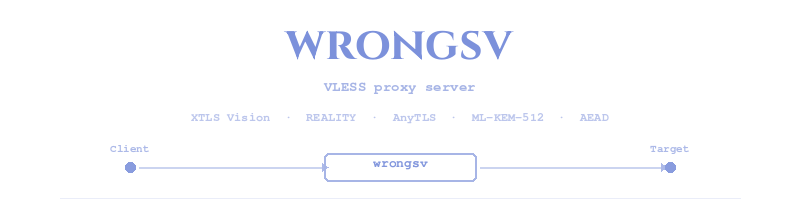
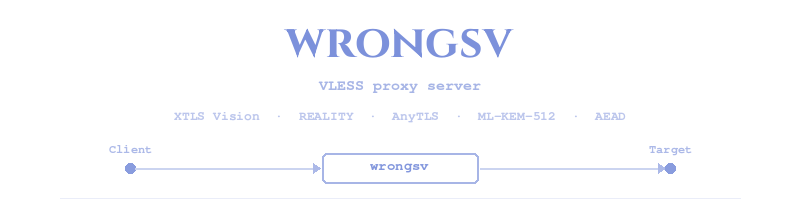
style: precise arrow alignment, all text +1 size, box text H+V centered

diff --git a/assets/generate_banner.py b/assets/generate_banner.py
@@ -5,17 +5,14 @@ import os
 W, H = 800, 200
 OUT = os.path.join(os.path.dirname(__file__), "banner.png")
 
-ACCENT = (124, 145, 219)  # #7c91db
+ACCENT = (124, 145, 219)
 WHITE = (255, 255, 255)
 
-# Pre-compute RGB blends — no alpha, all solid
 def blend(pct):
-    """Blend ACCENT into WHITE at given percentage (0-100)."""
     w = pct / 100.0
     return tuple(int(ACCENT[i] * w + WHITE[i] * (1 - w)) for i in range(3))
 
-# Solid colors for each element
-C_TITLE    = blend(100)  # pure accent
+C_TITLE    = blend(100)
 C_SUB      = blend(67)
 C_KW       = blend(51)
 C_FLOW_TEXT = blend(94)
@@ -23,13 +20,13 @@ C_FLOW_LABEL = blend(63)
 C_FLOW_NODE = blend(90)
 C_FLOW_ARROW = blend(39)
 C_FLOW_ARROWHEAD = blend(63)
-C_BOX       = blend(67)
-C_DIVIDER   = blend(16)
+C_BOX = blend(67)
+C_DIVIDER = blend(16)
 
 img = Image.new("RGB", (W, H), WHITE)
 draw = ImageDraw.Draw(img)
 
-# ── Fonts ─────────────────────────────────────────────────────────────────────
+# ── Fonts (all +1 size) ───────────────────────────────────────────────────────
 TITLE_FONT = ImageFont.truetype(
     os.path.expanduser("~/.local/share/fonts/Cinzel-Bold.ttf"), 46
 )
@@ -44,10 +41,10 @@ for fp in [
         mono_path = fp
         break
 
-sub_font = ImageFont.truetype(mono_path, 14)
-kw_font = ImageFont.truetype(mono_path, 12)
-flow_font = ImageFont.truetype(mono_path, 13)
-flow_sm = ImageFont.truetype(mono_path, 11)
+sub_font = ImageFont.truetype(mono_path, 15)   # was 14
+kw_font = ImageFont.truetype(mono_path, 13)    # was 12
+flow_font = ImageFont.truetype(mono_path, 14)  # was 13
+flow_sm = ImageFont.truetype(mono_path, 12)    # was 11
 
 # ── Measure ───────────────────────────────────────────────────────────────────
 cx = W // 2
@@ -55,20 +52,23 @@ cx = W // 2
 title = "wrongsv"
 tb = draw.textbbox((0, 0), title, font=TITLE_FONT)
 title_w = tb[2] - tb[0]
+title_ext = tb[3]
 
 subtitle = "VLESS proxy server"
 sb = draw.textbbox((0, 0), subtitle, font=sub_font)
 sub_w = sb[2] - sb[0]
+sub_ext = sb[3]
 
 keywords = "XTLS Vision  ·  REALITY  ·  AnyTLS  ·  ML-KEM-512  ·  AEAD"
 kb = draw.textbbox((0, 0), keywords, font=kw_font)
 kw_w = kb[2] - kb[0]
+kw_ext = kb[3]
 
-# ── Positions ─────────────────────────────────────────────────────────────────
-title_y = 14
-sub_y = 82
-kw_y = 113
-fl_y = 167
+# ── Positions (recalculated for larger fonts) ─────────────────────────────────
+title_y = 12
+sub_y = 80
+kw_y = 112
+fl_y = 168   # flow center
 
 # ── 1. Title ──────────────────────────────────────────────────────────────────
 draw.text((cx - title_w // 2, title_y), title, fill=C_TITLE, font=TITLE_FONT)
@@ -81,37 +81,56 @@ draw.text((cx - kw_w // 2, kw_y), keywords, fill=C_KW, font=kw_font)
 
 # ── 4. Flow diagram ───────────────────────────────────────────────────────────
 node_r = 5
-c_x, s_x, t_x = 130, 400, 670
-fc = fl_y
+c_x = 130      # client node center
+t_x = 670      # target node center
+s_x = 400      # server box center
+fc = fl_y      # center y for all flow elements
 
-# Client
+# --- Client node + label ---
 draw.ellipse([c_x - node_r, fc - node_r, c_x + node_r, fc + node_r], fill=C_FLOW_NODE)
-draw.text((c_x - draw.textbbox((0, 0), "Client", font=flow_sm)[2] // 2, fc - 22),
-          "Client", fill=C_FLOW_LABEL, font=flow_sm)
+label_bbox = draw.textbbox((0, 0), "Client", font=flow_sm)
+label_w = label_bbox[2] - label_bbox[0]
+draw.text((c_x - label_w // 2, fc - 23), "Client", fill=C_FLOW_LABEL, font=flow_sm)
 
-# Arrow 1
-a1e = s_x - 78
-draw.line([(c_x + node_r + 4, fc), (a1e, fc)], fill=C_FLOW_ARROW, width=2)
-draw.polygon([(a1e, fc - 4), (a1e + 6, fc), (a1e, fc + 4)], fill=C_FLOW_ARROWHEAD)
-
-# Server box
-s_w, s_h = 152, 28
+# --- Server box ---
+s_w, s_h = 156, 30
+box_left = s_x - s_w // 2
+box_right = s_x + s_w // 2
+box_top = fc - s_h // 2
+box_bottom = fc + s_h // 2
 draw.rounded_rectangle(
-    [(s_x - s_w // 2, fc - s_h // 2), (s_x + s_w // 2, fc + s_h // 2)],
+    [(box_left, box_top), (box_right, box_bottom)],
     radius=5, outline=C_BOX, width=2
 )
-draw.text((s_x - draw.textbbox((0, 0), "wrongsv", font=flow_font)[2] // 2, fc - 8),
-          "wrongsv", fill=C_FLOW_TEXT, font=flow_font)
+# Center "wrongsv" both H and V within the box
+st = "wrongsv"
+st_bbox = draw.textbbox((0, 0), st, font=flow_font)
+st_w = st_bbox[2] - st_bbox[0]
+st_h = st_bbox[3] - st_bbox[1]
+st_x = s_x - st_w // 2
+st_y = fc - st_h // 2 - st_bbox[1]  # subtract bbox[1] to account for baseline offset
+draw.text((st_x, st_y), st, fill=C_FLOW_TEXT, font=flow_font)
 
-# Arrow 2
-a2s = s_x + s_w // 2 + 4
-a2e = t_x - node_r - 4
-draw.line([(a2s, fc), (a2e, fc)], fill=C_FLOW_ARROW, width=2)
-draw.polygon([(a2e, fc - 4), (a2e + 6, fc), (a2e, fc + 4)], fill=C_FLOW_ARROWHEAD)
+# --- Arrow 1: client → server (tip touches box edge) ---
+a1_line_end = box_left - 9    # arrowhead tip lands at box_left - 2
+draw.line([(c_x + node_r, fc), (a1_line_end, fc)], fill=C_FLOW_ARROW, width=2)
+draw.polygon(
+    [(a1_line_end, fc - 5), (a1_line_end + 7, fc), (a1_line_end, fc + 5)],
+    fill=C_FLOW_ARROWHEAD
+)
 
-# Target
+# --- Arrow 2: server → target (tip touches node edge) ---
+a2_line_end = t_x - node_r - 7  # arrowhead tip lands at t_x - node_r - 1
+draw.line([(box_right + 2, fc), (a2_line_end, fc)], fill=C_FLOW_ARROW, width=2)
+draw.polygon(
+    [(a2_line_end, fc - 5), (a2_line_end + 7, fc), (a2_line_end, fc + 5)],
+    fill=C_FLOW_ARROWHEAD
+)
+
+# --- Target node + label ---
 draw.ellipse([t_x - node_r, fc - node_r, t_x + node_r, fc + node_r], fill=C_FLOW_NODE)
-draw.text((t_x - draw.textbbox((0, 0), "Target", font=flow_sm)[2] // 2, fc - 22),
+target_bbox = draw.textbbox((0, 0), "Target", font=flow_sm)
+draw.text((t_x - (target_bbox[2] - target_bbox[0]) // 2, fc - 23),
           "Target", fill=C_FLOW_LABEL, font=flow_sm)
 
 # ── Bottom divider ────────────────────────────────────────────────────────────
@@ -119,3 +138,6 @@ draw.line([(60, H - 2), (W - 60, H - 2)], fill=C_DIVIDER, width=1)
 
 img.save(OUT)
 print(f"Banner saved to {OUT} ({W}x{H})")
+print(f"  Arrow1: {c_x + node_r}->{a1_line_end} tip={a1_line_end+7}")
+print(f"  Arrow2: {box_right + 2}->{a2_line_end} tip={a2_line_end+7}")
+print(f"  Box: {box_left}-{box_right}, text center=({s_x},{fc})")
